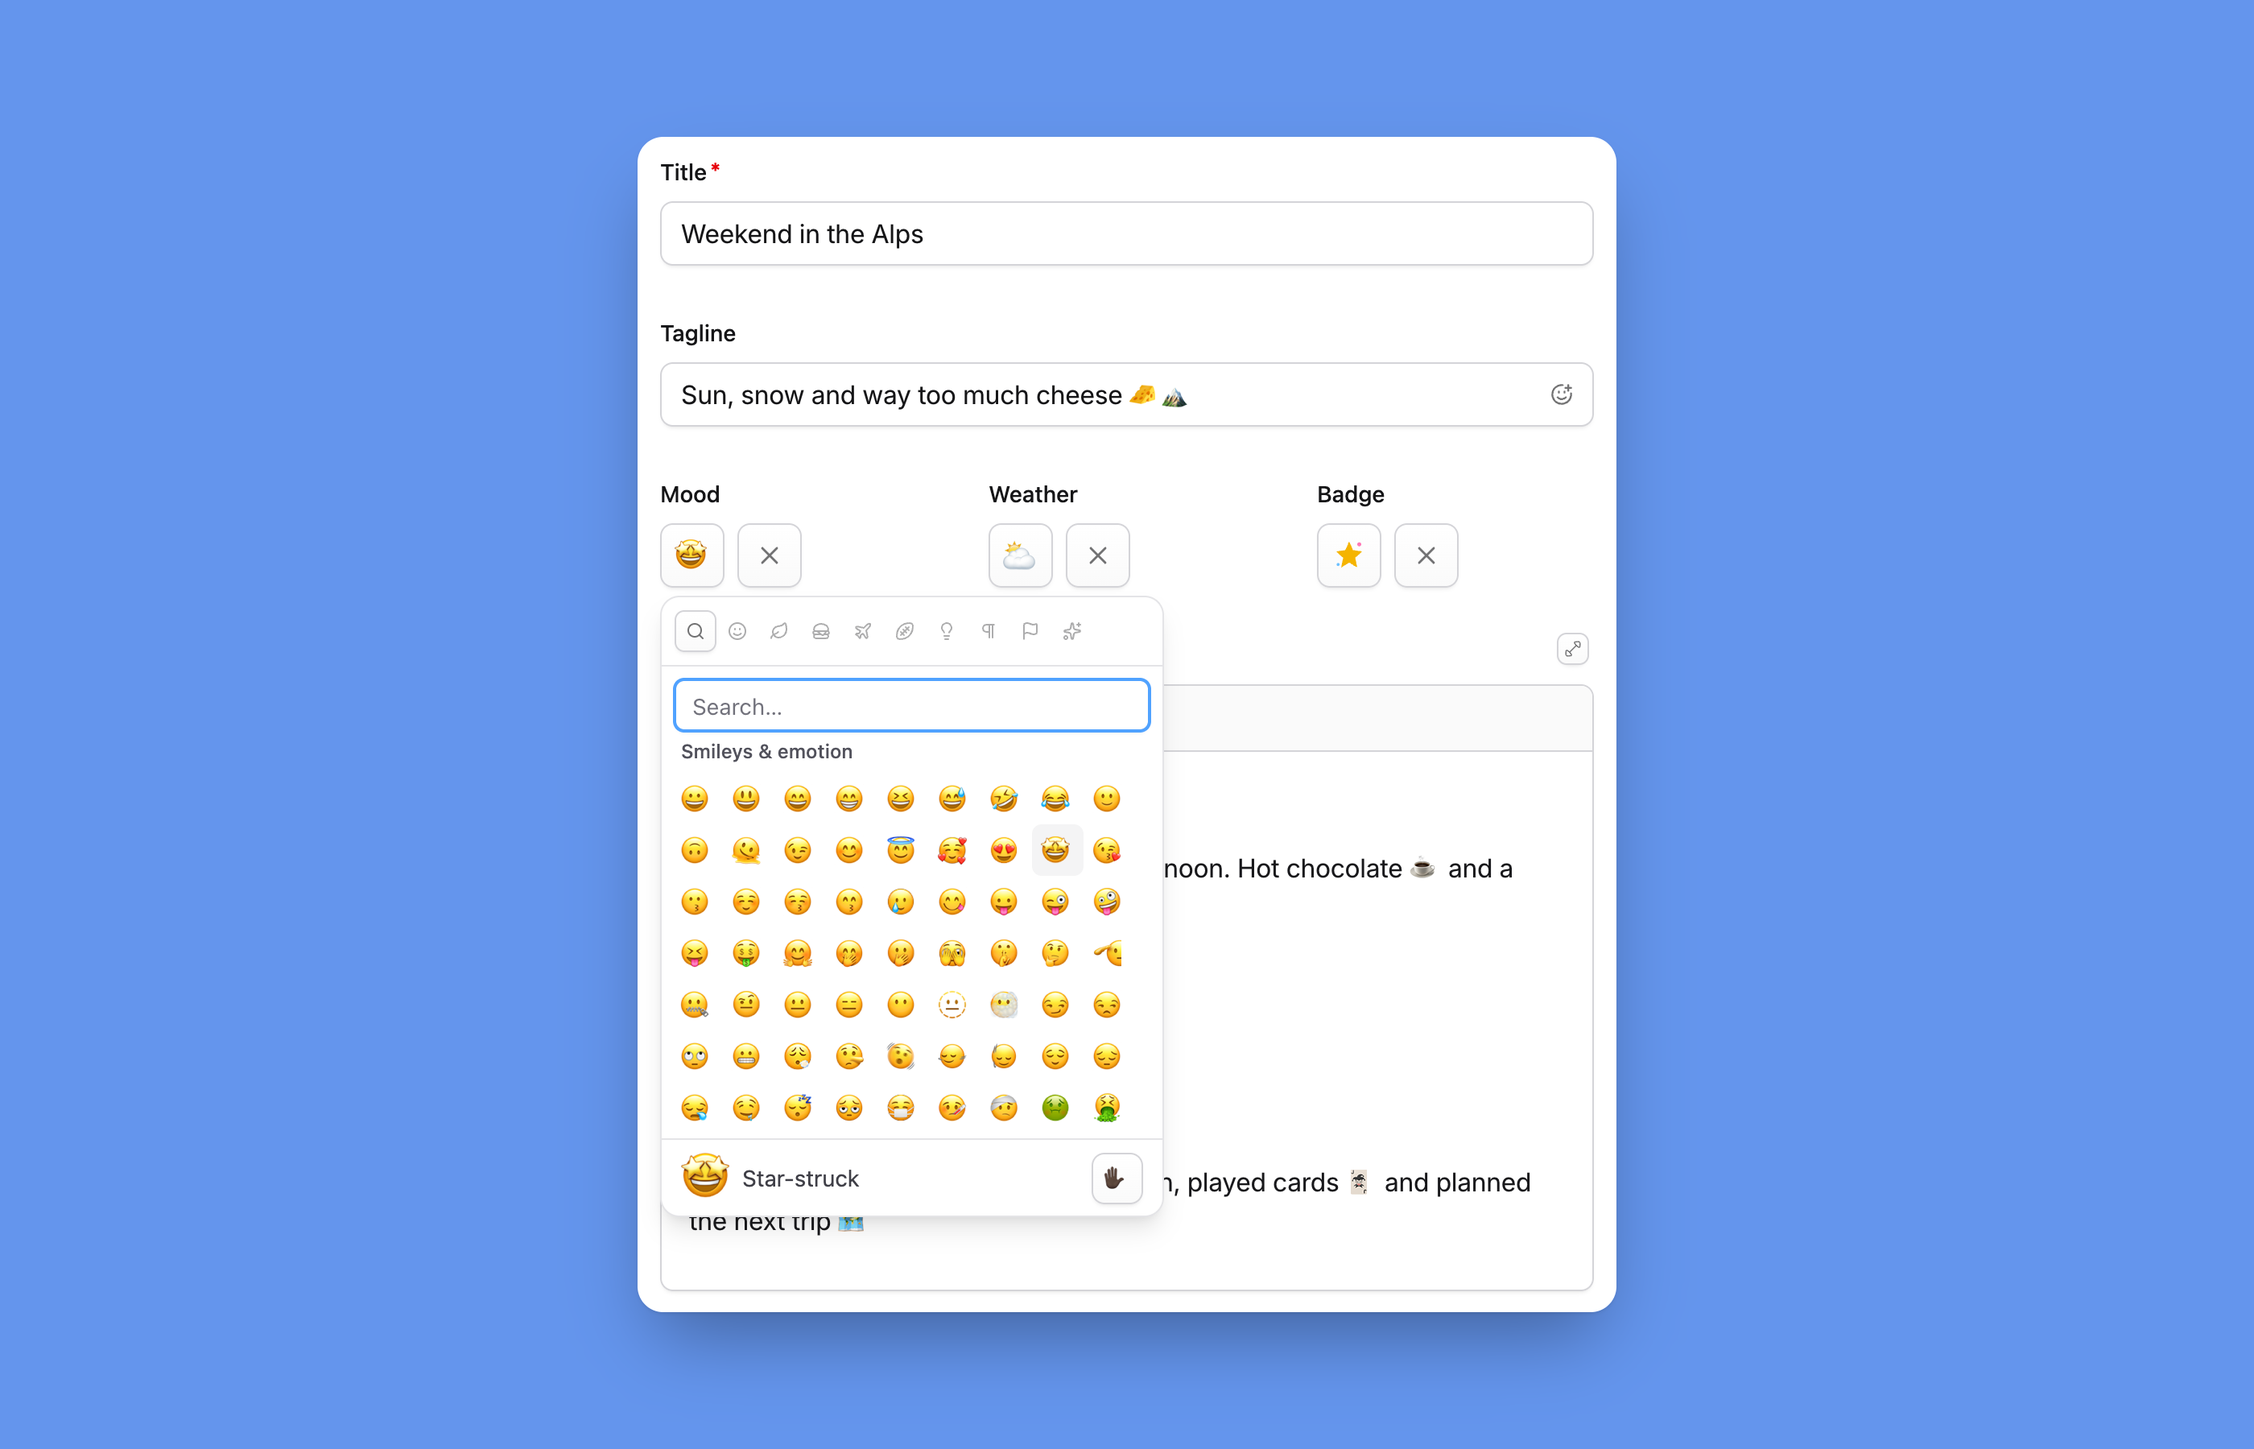
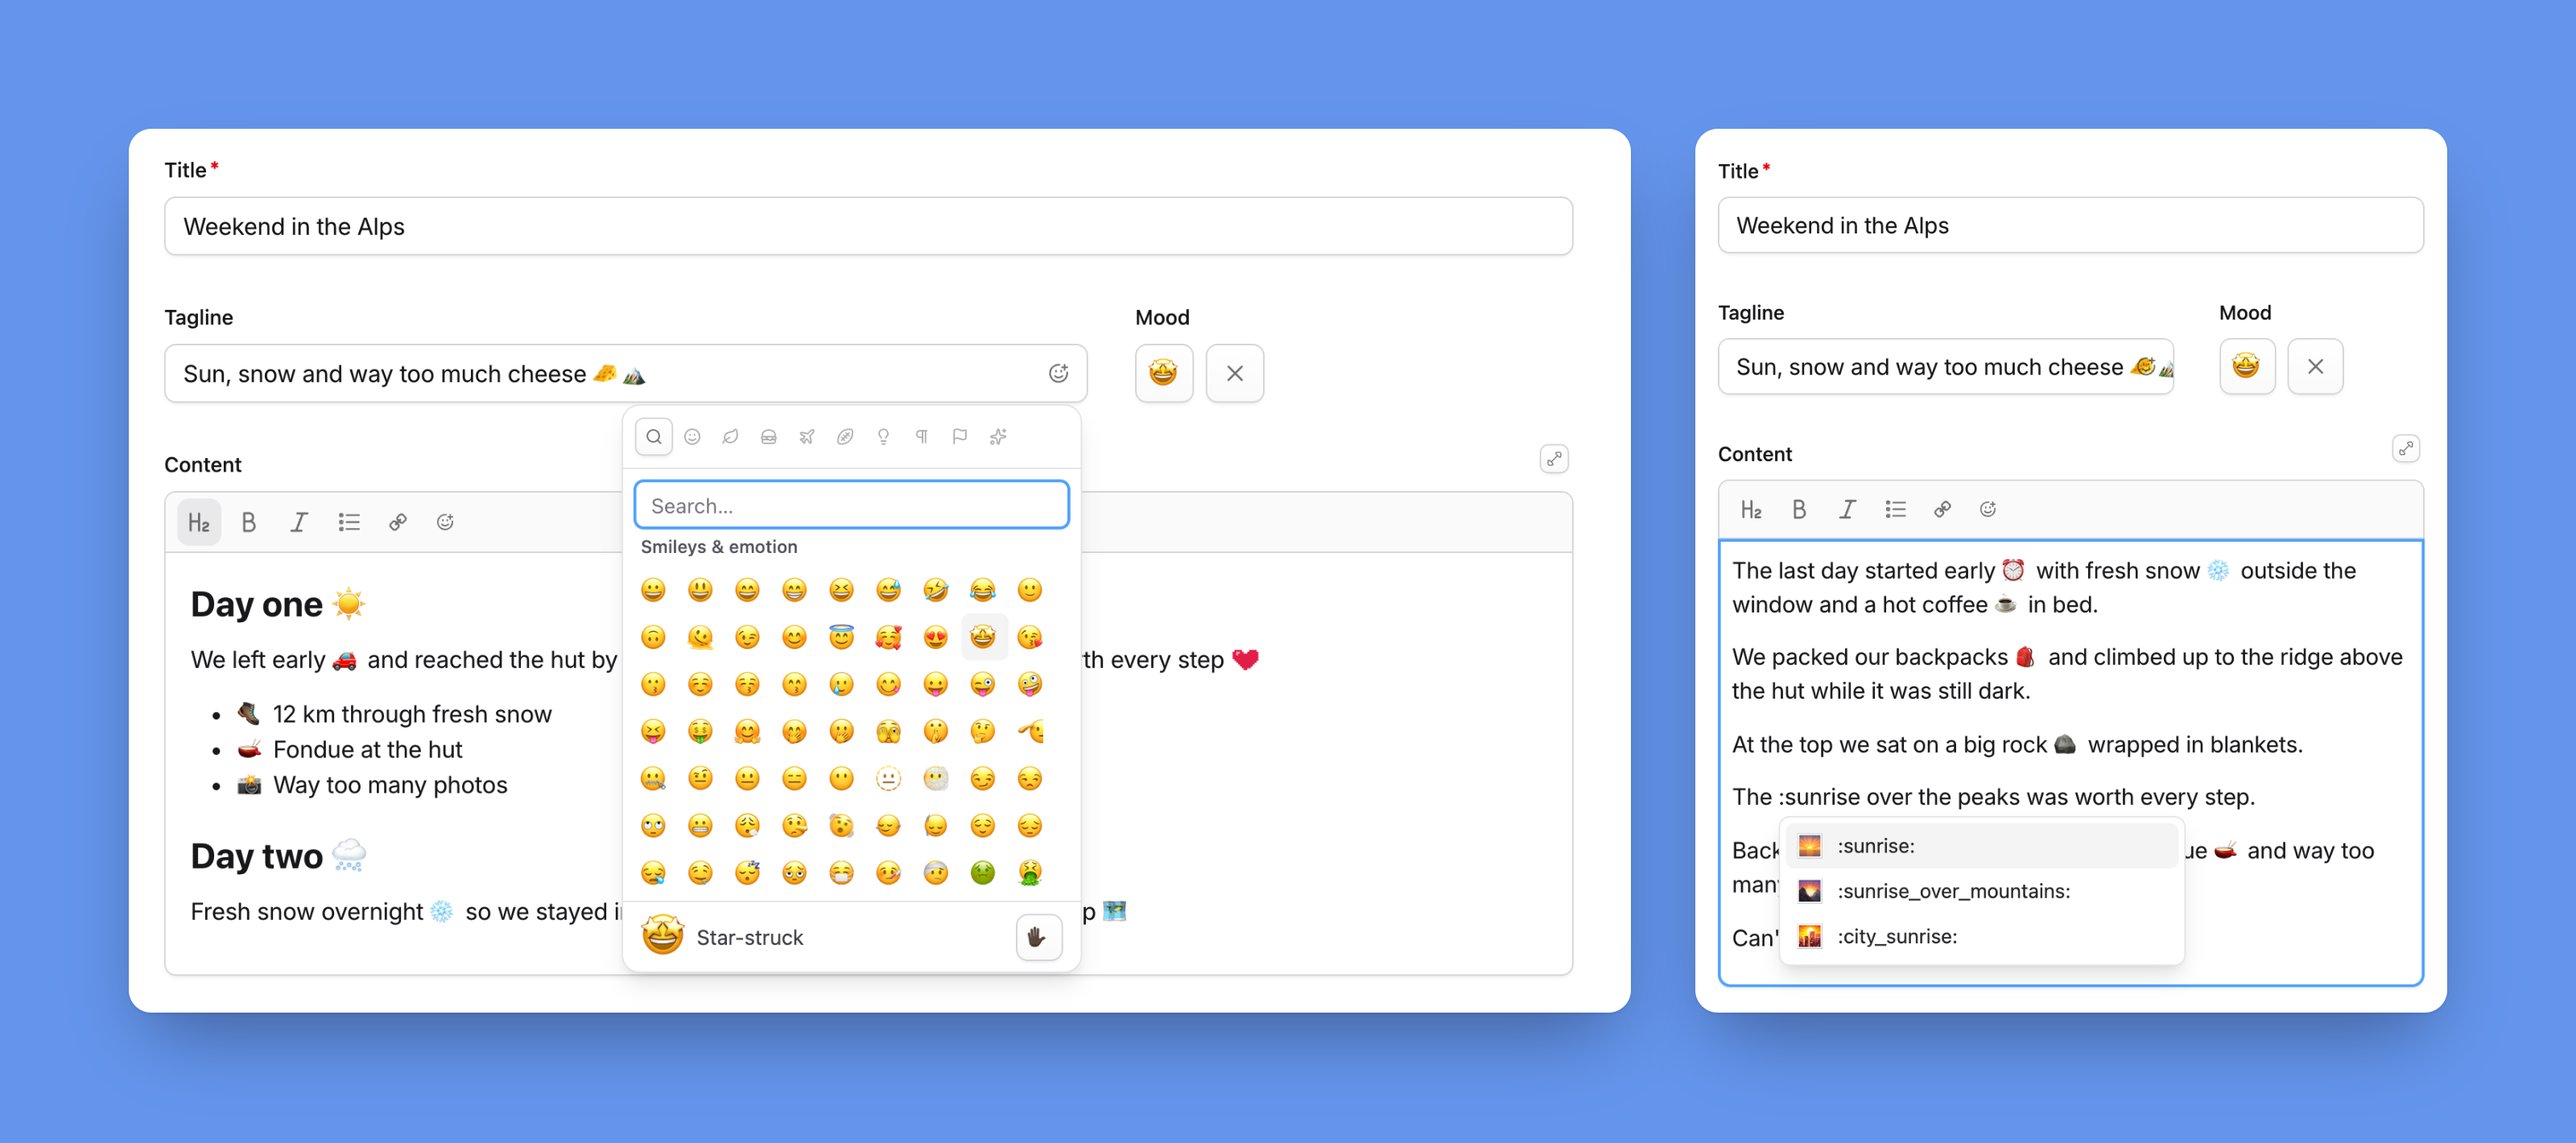
docs: show the picker and shortcode suggestions in the demo image

diff --git a/README.md b/README.md
@@ -4,7 +4,7 @@ A Statamic 6 addon that adds an emoji picker to the Control Panel: emoji fieldty
 shortcode suggestions and custom emoji uploads. Emojis are **stored as Unicode** and can be shown as
 native characters or as **Noto, Fluent or OpenMoji images**, in the Control Panel and on the front end.
 
-![An entry in the Statamic Control Panel with Emoji, Emoji Text and Bard fields and the open emoji picker](.github/demo.png)
+![Two Control Panel screenshots: an entry with the emoji picker open on an Emoji Text field, and shortcode suggestions for ":sunrise" in a Bard field](.github/demo.png)
 
 ## Features
 
